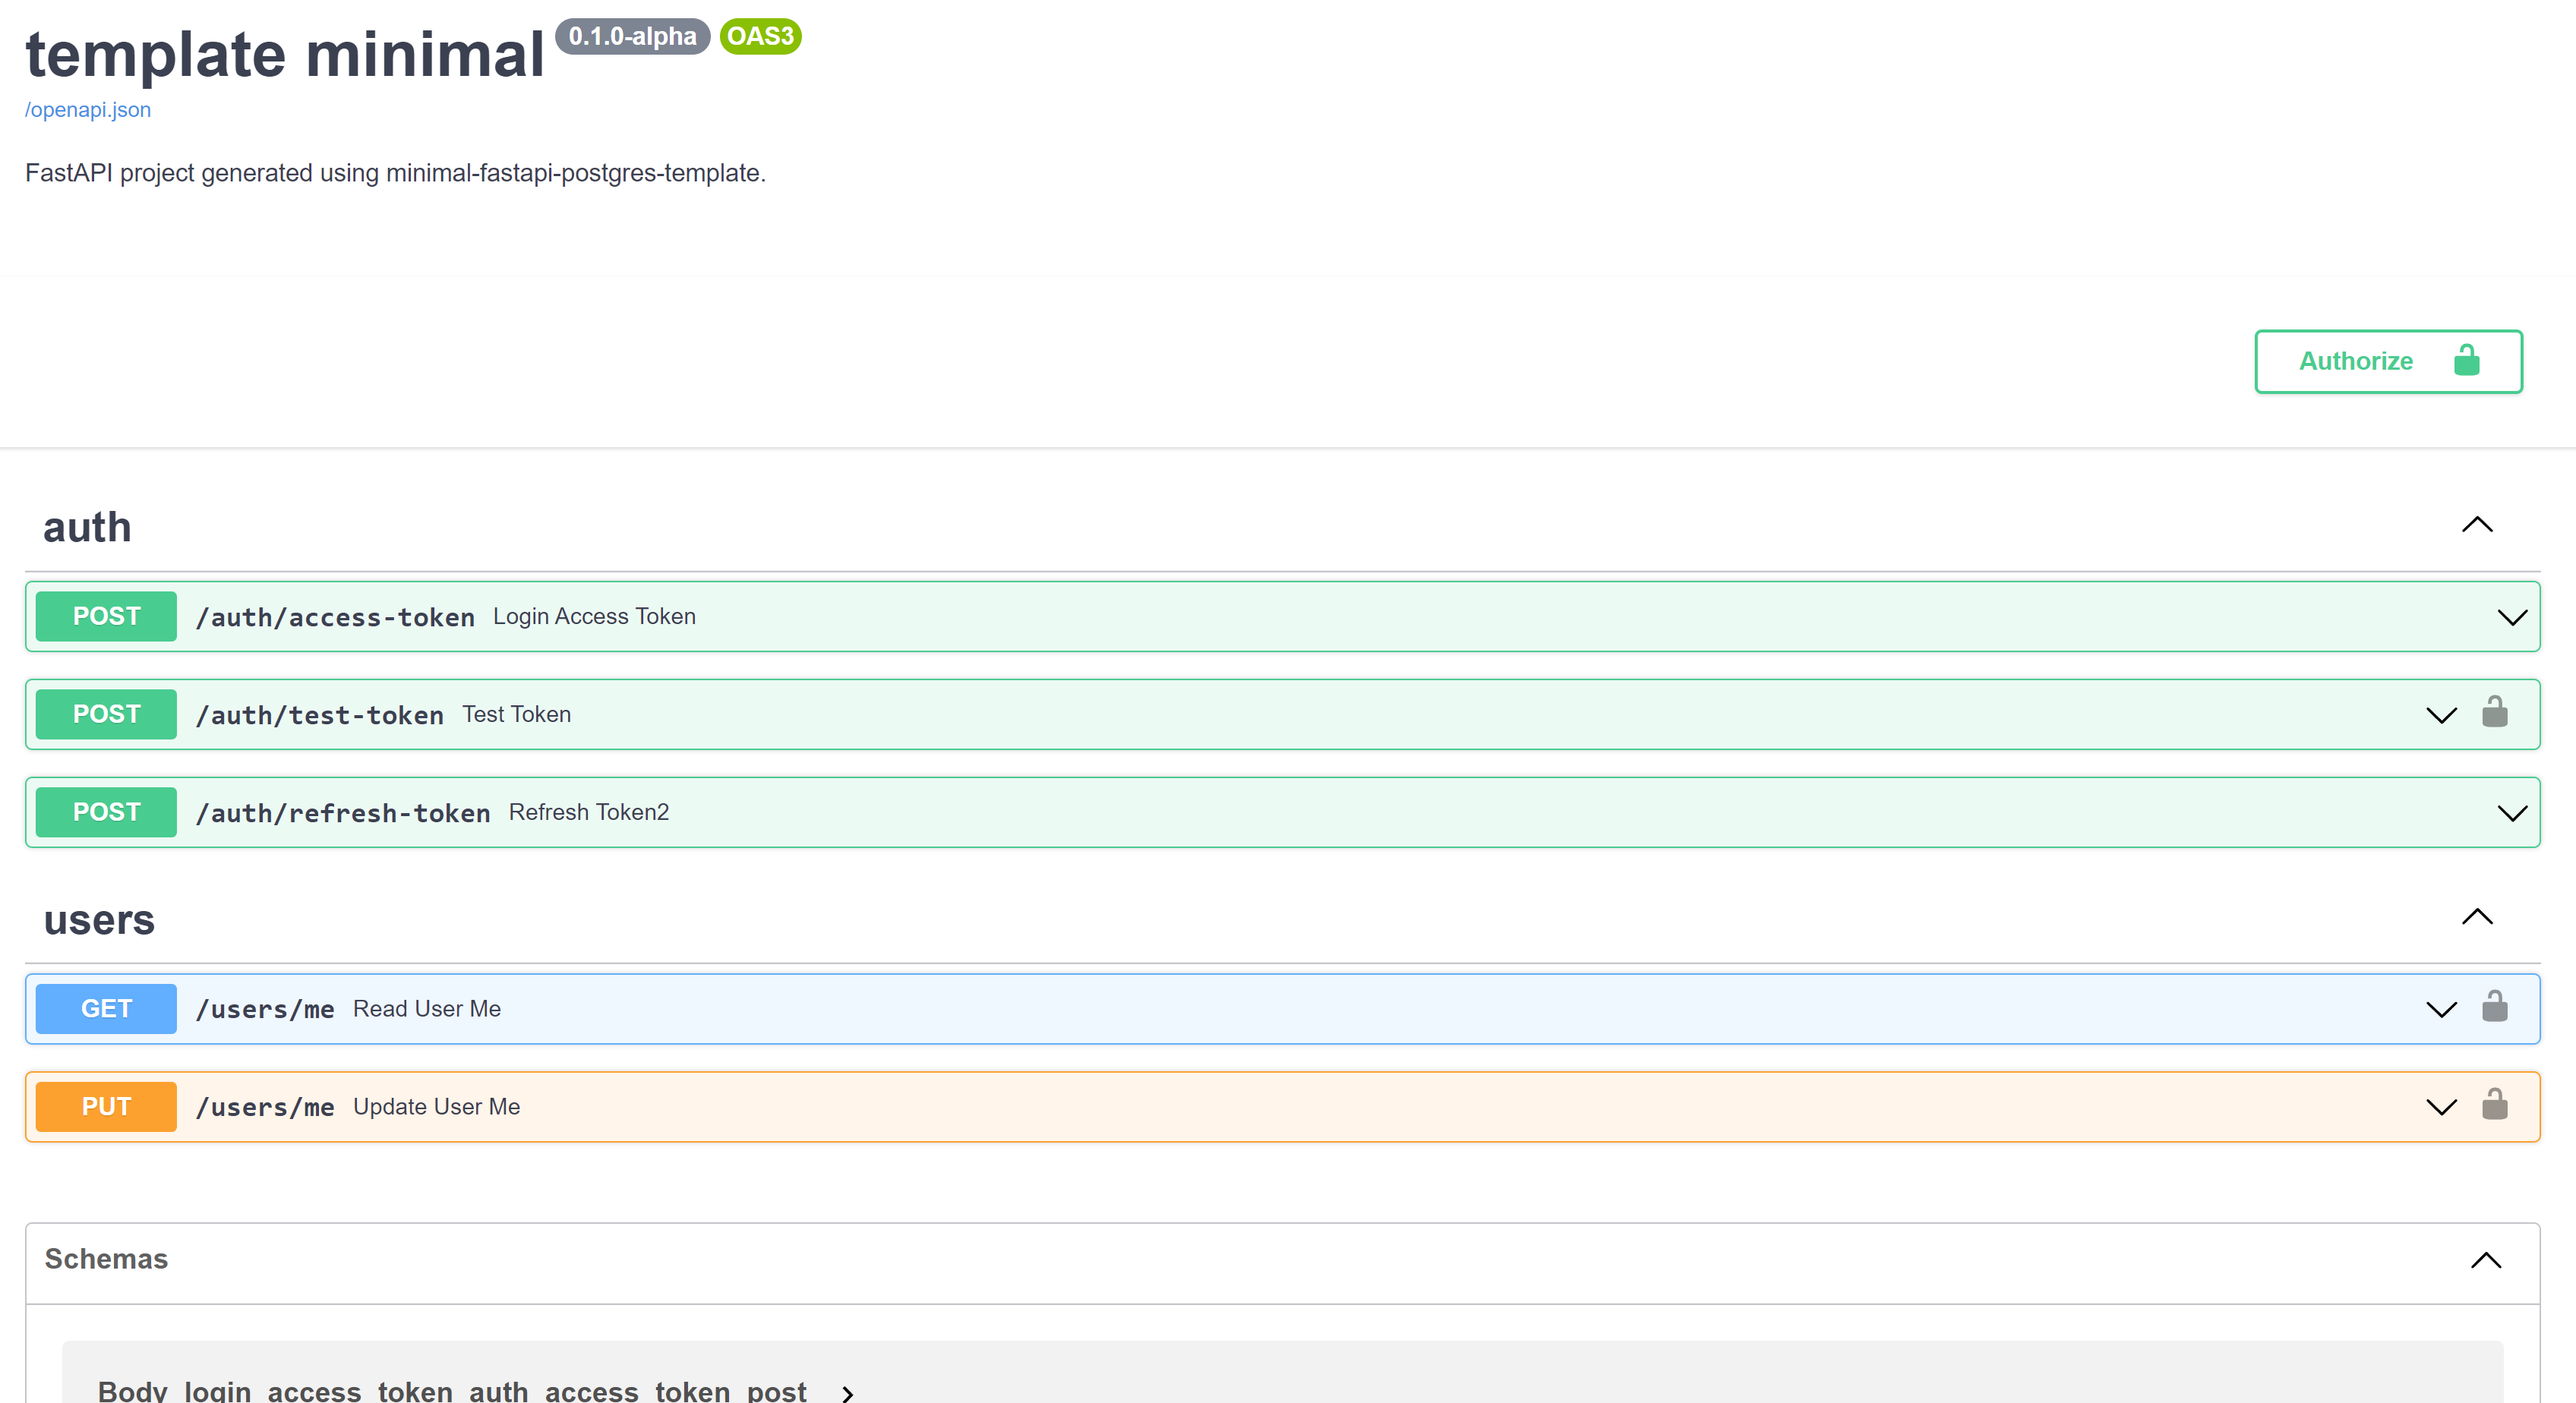
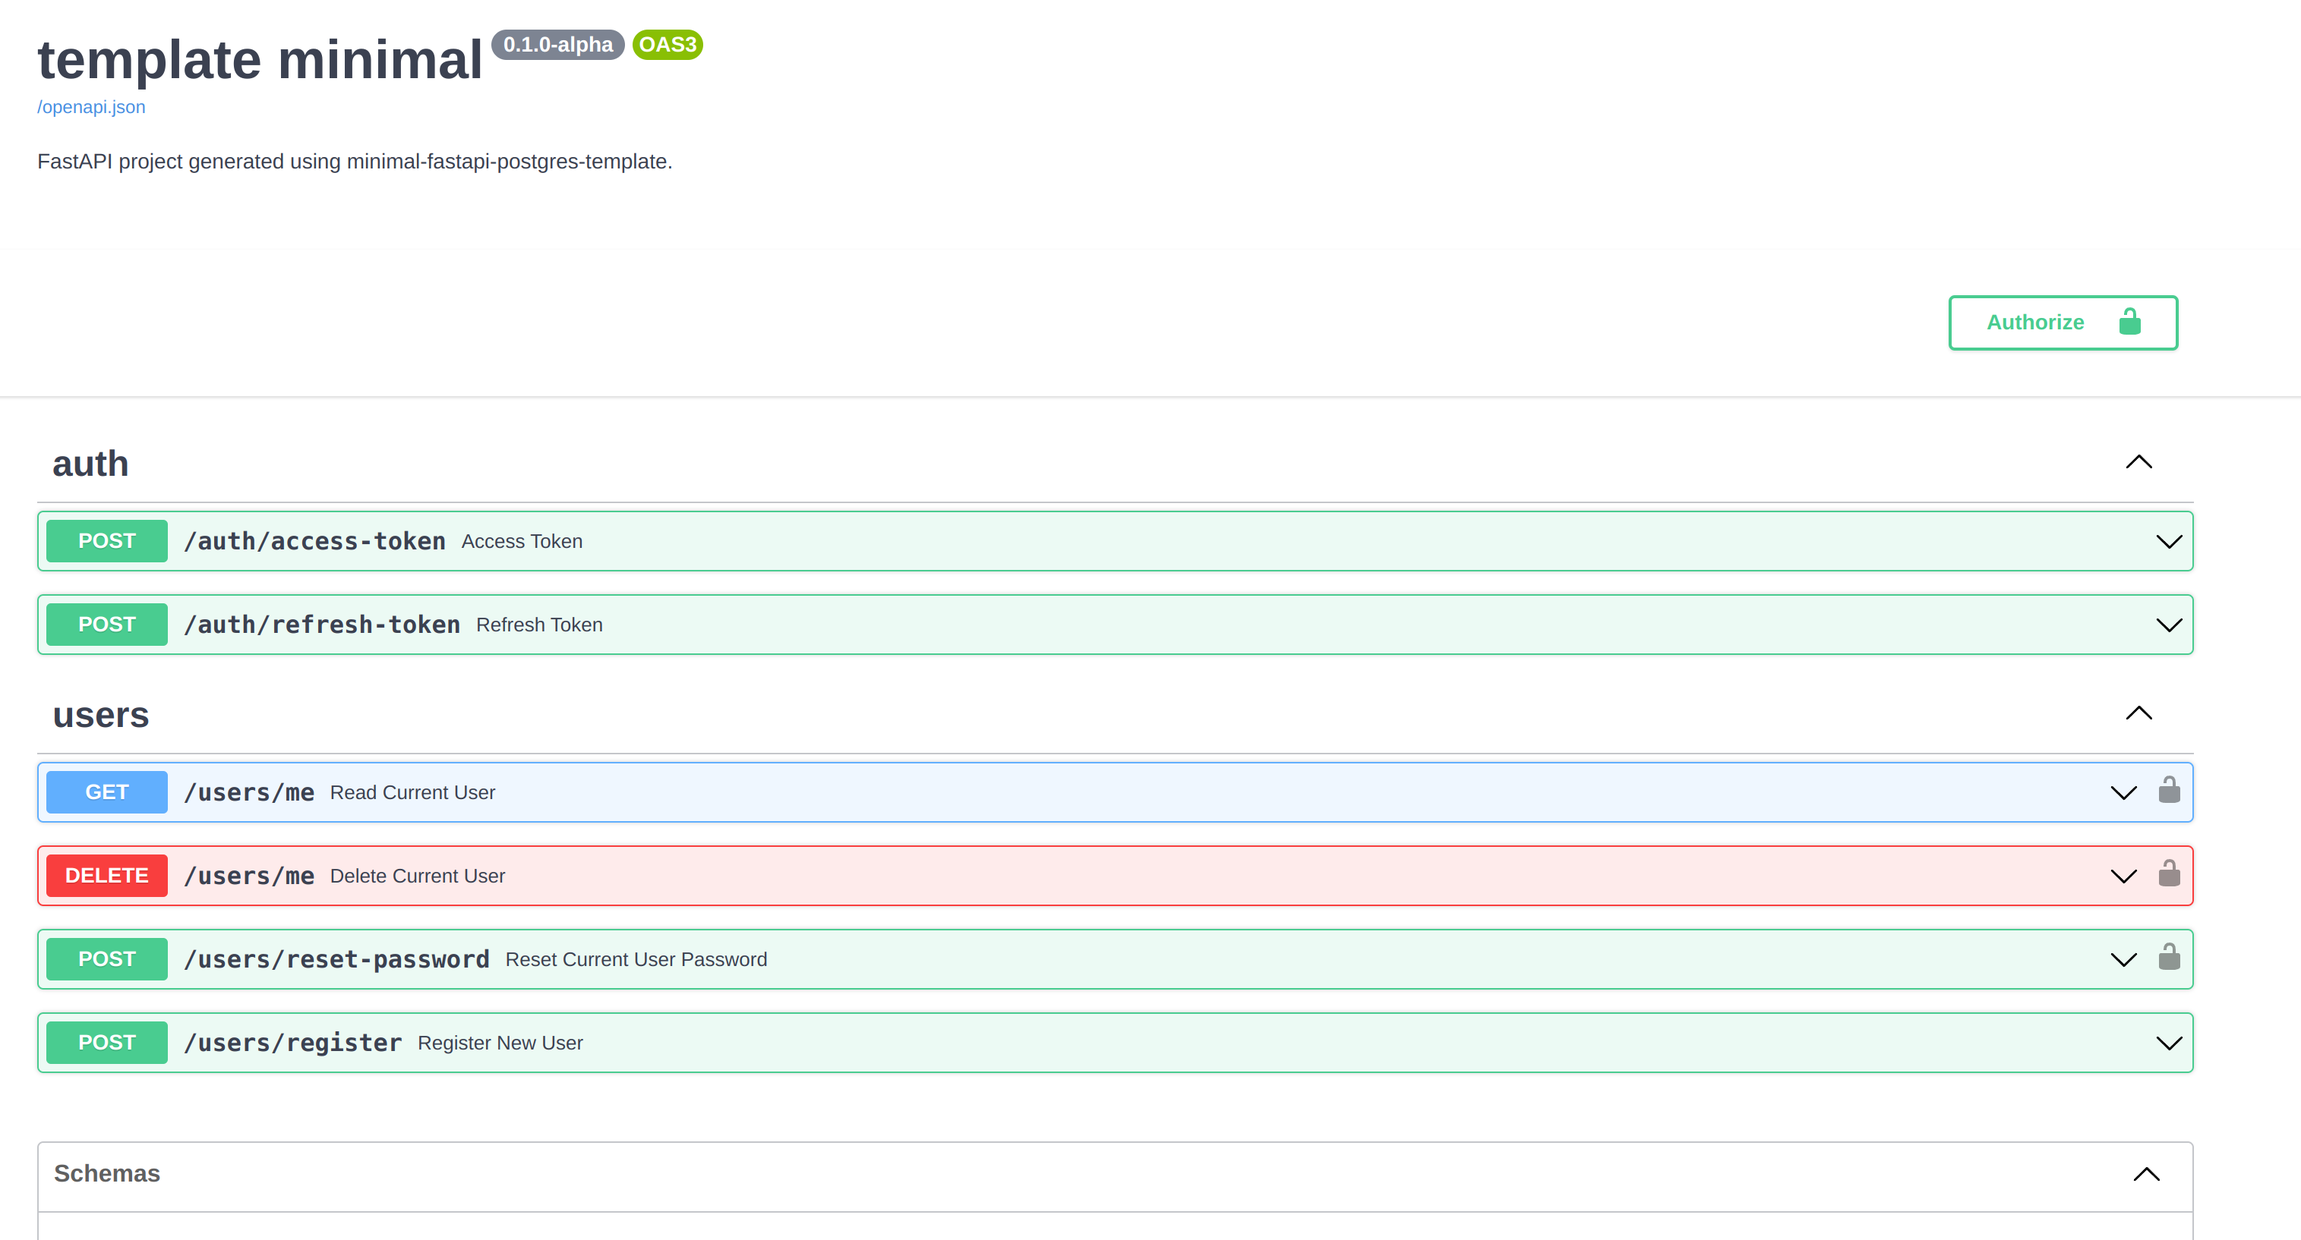
Updated docs image, cookiecutter params and tests.yml file name

diff --git a/hooks/post_gen_project.py b/hooks/post_gen_project.py
@@ -8,7 +8,7 @@ from pathlib import Path
 from shutil import copytree, rmtree
 
 PROJECT_NAME = "{{ cookiecutter.project_name }}"
-USE_FASTAPI_USERS = "{{ cookiecutter.use_fastapi_users }}"
+USE_FASTAPI_USERS = "{{ cookiecutter.experimental_fastapi_users_template }}"
 TEMPLATES = ["template_fastapi_users", "template_minimal"]
 
 
@@ -38,7 +38,7 @@ if __name__ == "__main__":
     elif USE_FASTAPI_USERS in falsy:
         used_template = "template_minimal"
     else:
-        raise ValueError(f"use_fastapi_users param must be in {truthy + falsy}")
+        raise ValueError(f"'experimental_fastapi_users_template' param must be in {truthy + falsy}")
 
     copy_choosen_template_to_main_dir(used_template=used_template)
     create_env_file_and_remove_env_template()

diff --git a/tests/create_fastapi_users_project.py b/tests/create_fastapi_users_project.py
@@ -15,7 +15,7 @@ def main():
         no_input=True,
         extra_context={
             "project_name": "fastapi_users_project",
-            "use_fastapi_users": True,
+            "experimental_fastapi_users_template": True,
         },
     )
 

diff --git a/tests/create_minimal_project.py b/tests/create_minimal_project.py
@@ -15,7 +15,7 @@ def main():
         no_input=True,
         extra_context={
             "project_name": "minimal_project",
-            "use_fastapi_users": False,
+            "experimental_fastapi_users_template": False,
         },
     )
 
